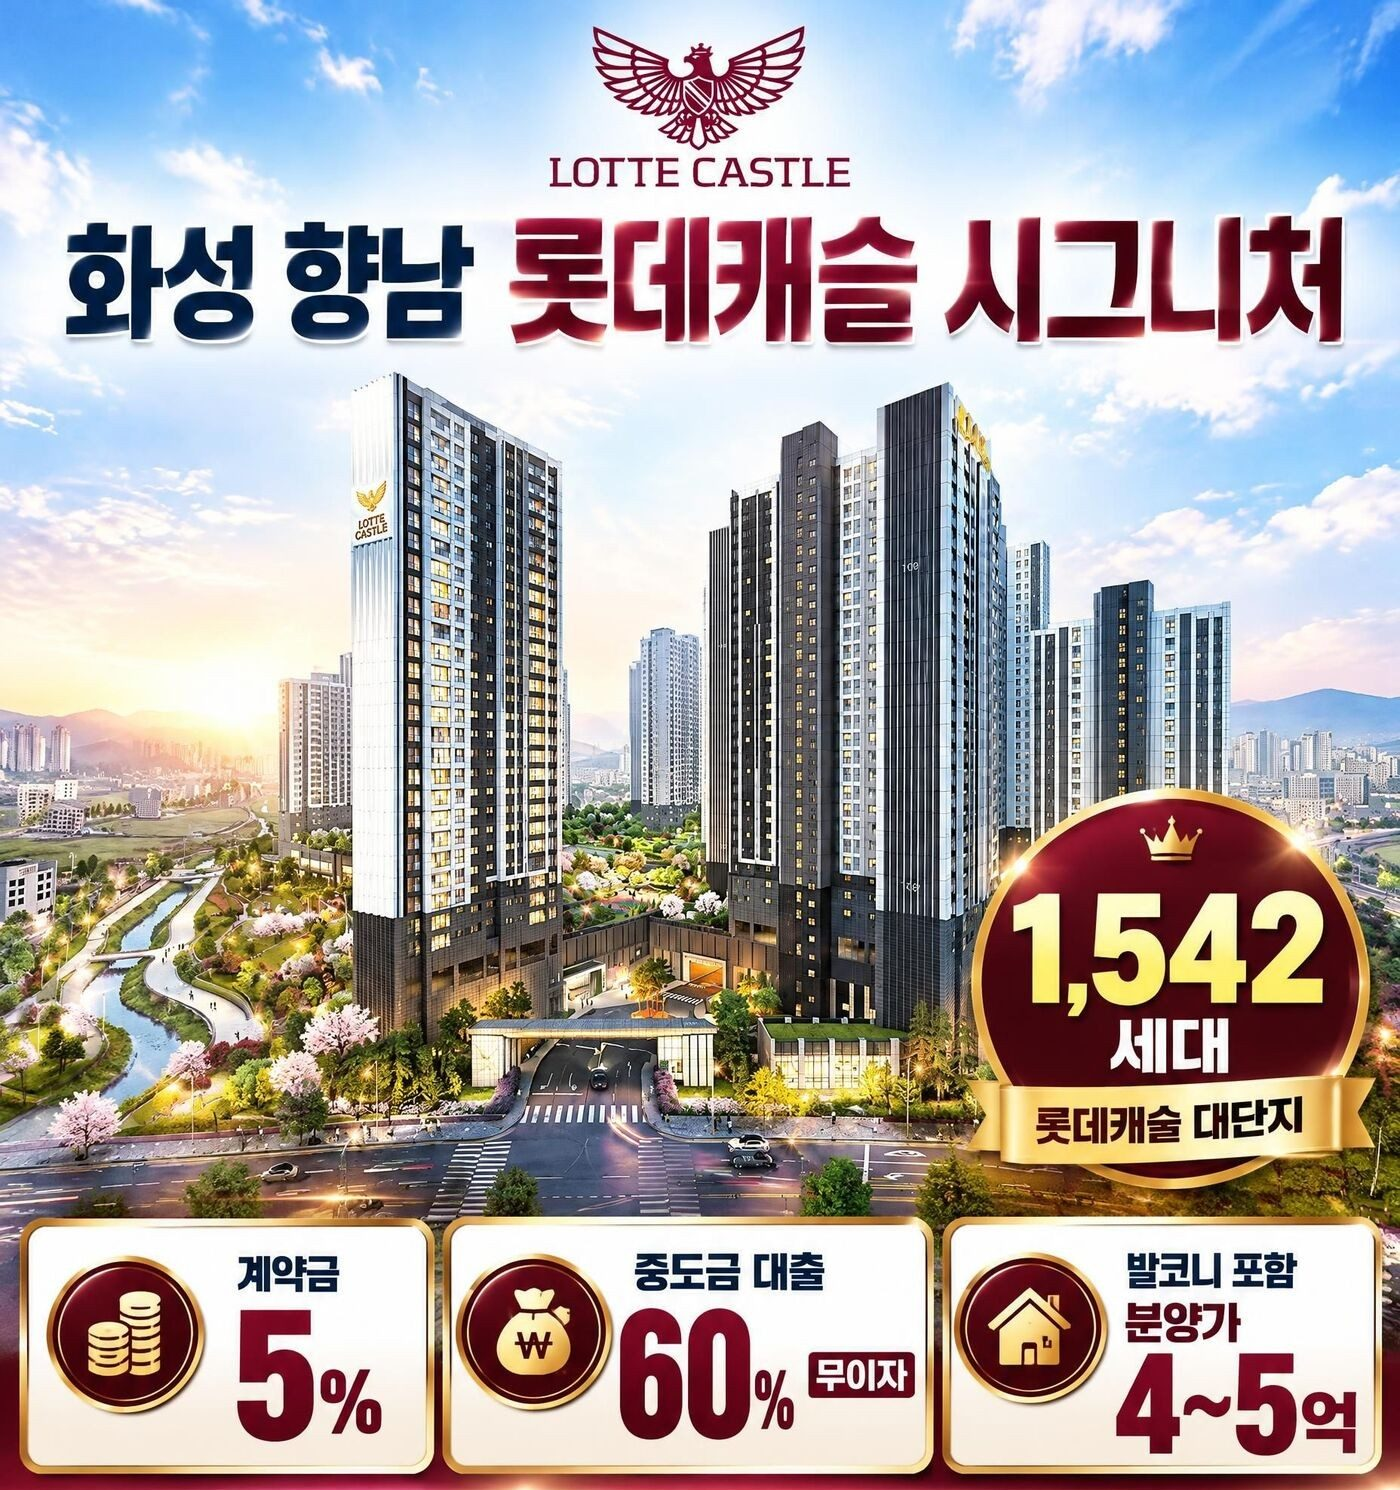
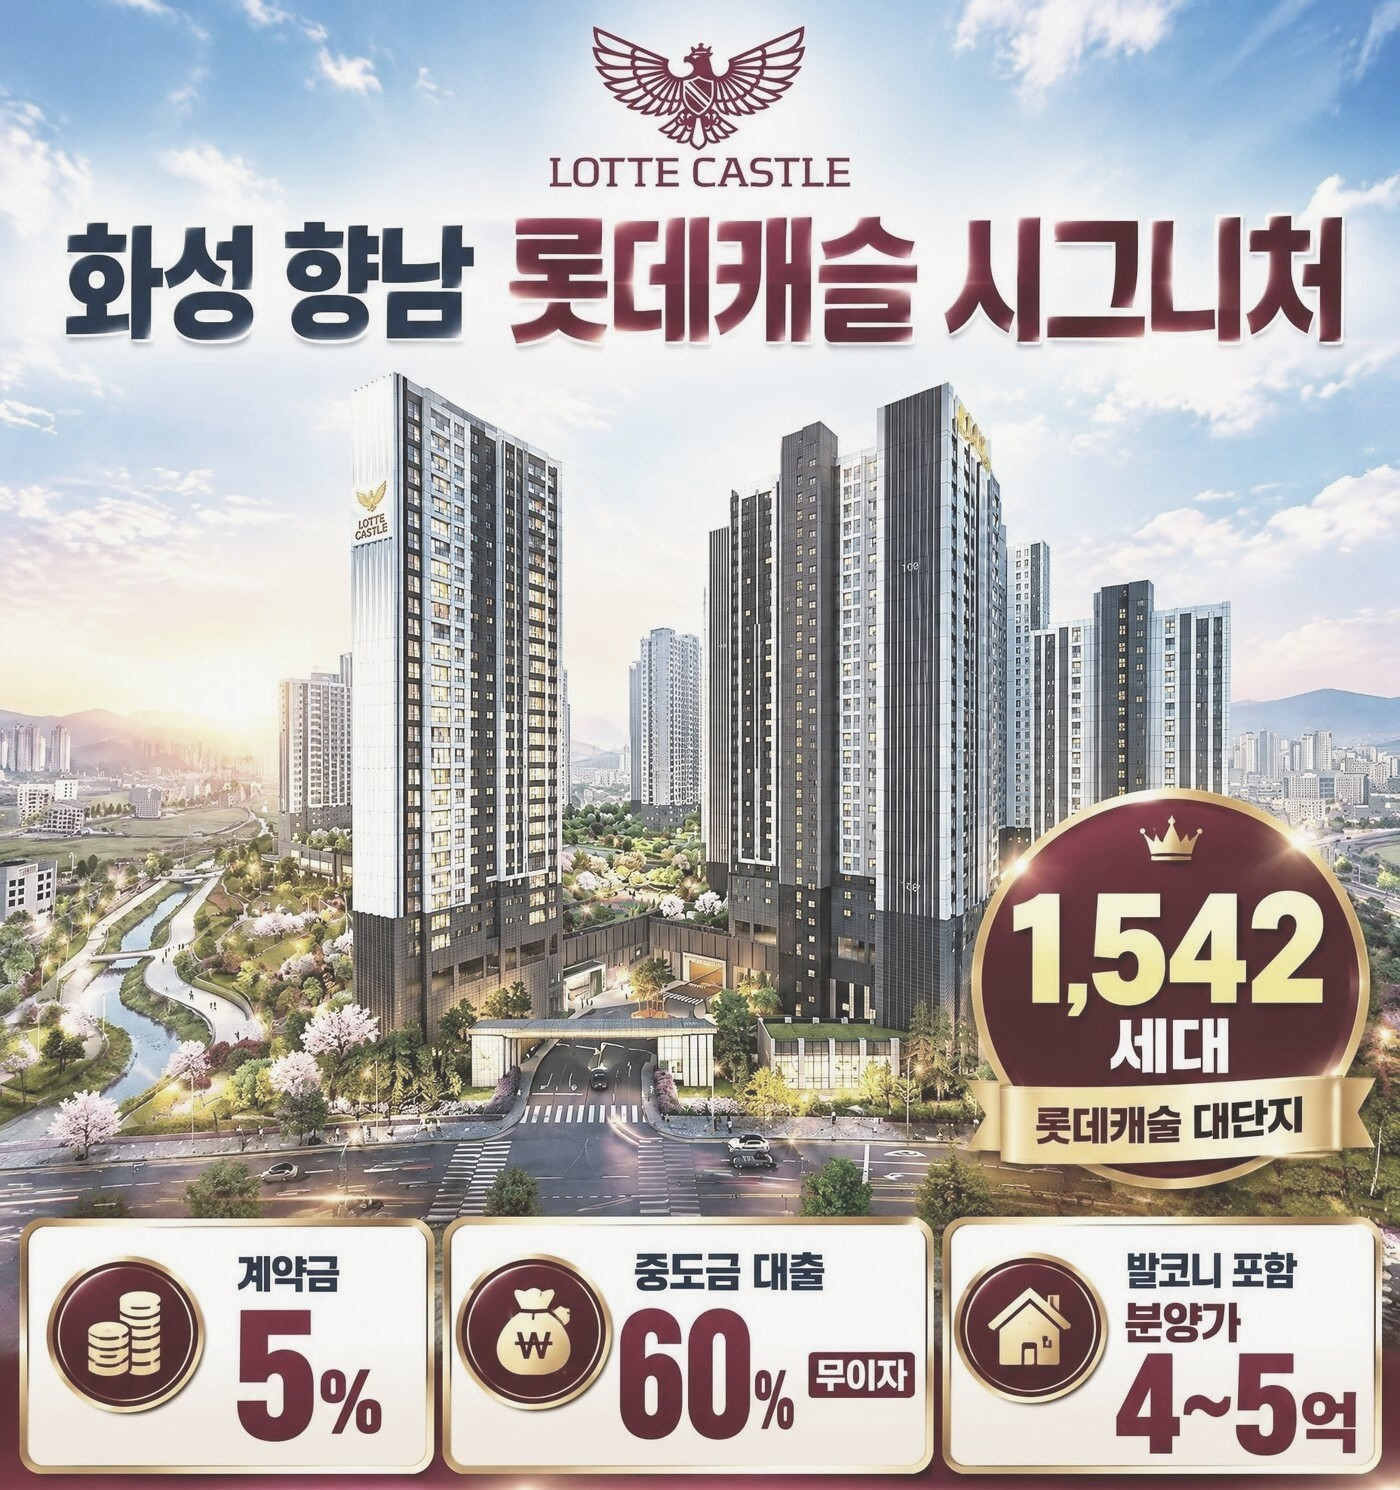
타입 카드 평면안내 연결, 대문 이미지 색감 차분하게 조정
- 타입 카드(84A~120) 클릭 시 평면안내 섹션으로 이동하고 해당 평형 탭 선택
- 대문 이미지 채도·대비를 낮춰 차분한 톤으로 변경

diff --git a/index.html b/index.html
@@ -106,7 +106,8 @@ table.ov{width:100%;border-collapse:collapse;margin:18px 0;font-size:15px;table-
 table.ov th,table.ov td{border-bottom:1px solid var(--line);padding:12px 10px;text-align:left;vertical-align:top}
 table.ov th{width:30%;color:var(--wine3);font-weight:700;background:var(--cream)}
 .types{display:grid;grid-template-columns:repeat(5,minmax(0,1fr));gap:8px;margin-top:18px}
-.type{border:1px solid var(--line);border-radius:12px;padding:12px 6px;text-align:center;background:#fff}
+.type{display:block;border:1px solid var(--line);border-radius:12px;padding:12px 6px;text-align:center;background:#fff;color:inherit;text-decoration:none;cursor:pointer;transition:border-color .2s,box-shadow .2s}
+.type:hover,.type:focus-visible{border-color:var(--wine2);box-shadow:0 2px 10px rgba(0,0,0,.08);outline:none}
 .type b{display:block;font-size:20px;font-weight:900;color:var(--wine2)}
 .type span{font-size:12px;color:var(--muted)}
 
@@ -257,16 +258,16 @@ footer button{background:none;border:0;color:#f3dc95;text-decoration:underline;f
       <tr><th>시행</th><td>(주)젤존</td></tr>
     </table>
     <div class="types">
-      <div class="type"><b>84A</b><span>291세대</span></div>
-      <div class="type"><b>84B</b><span>136세대</span></div>
-      <div class="type"><b>84C</b><span>412세대</span></div>
-      <div class="type"><b>84D</b><span>89세대</span></div>
-      <div class="type"><b>84E</b><span>301세대</span></div>
-      <div class="type"><b>84F</b><span>83세대</span></div>
-      <div class="type"><b>84G</b><span>19세대</span></div>
-      <div class="type"><b>102</b><span>56세대</span></div>
-      <div class="type"><b>112</b><span>78세대</span></div>
-      <div class="type"><b>120</b><span>77세대</span></div>
+      <a class="type" href="#unit" data-go="u84a"><b>84A</b><span>291세대</span></a>
+      <a class="type" href="#unit" data-go="u84b"><b>84B</b><span>136세대</span></a>
+      <a class="type" href="#unit" data-go="u84c"><b>84C</b><span>412세대</span></a>
+      <a class="type" href="#unit" data-go="u84d"><b>84D</b><span>89세대</span></a>
+      <a class="type" href="#unit" data-go="u84e"><b>84E</b><span>301세대</span></a>
+      <a class="type" href="#unit" data-go="u84f"><b>84F</b><span>83세대</span></a>
+      <a class="type" href="#unit" data-go="u84g"><b>84G</b><span>19세대</span></a>
+      <a class="type" href="#unit" data-go="u102"><b>102</b><span>56세대</span></a>
+      <a class="type" href="#unit" data-go="u112"><b>112</b><span>78세대</span></a>
+      <a class="type" href="#unit" data-go="u120"><b>120</b><span>77세대</span></a>
     </div>
   </div>
 </section>
@@ -560,6 +561,14 @@ document.querySelectorAll('.tabs').forEach(function(tb){
       tb.querySelectorAll('button').forEach(function(x){x.classList.remove('on');document.getElementById(x.getAttribute('data-p')).classList.remove('on');});
       b.classList.add('on');document.getElementById(b.getAttribute('data-p')).classList.add('on');
     });
+  });
+});
+
+/* 타입 카드 → 평면안내 해당 평형 탭 선택 (href="#unit"로 스크롤) */
+document.querySelectorAll('[data-go]').forEach(function(card){
+  card.addEventListener('click',function(){
+    var btn=document.querySelector('.tabs button[data-p="'+card.getAttribute('data-go')+'"]');
+    if(btn)btn.click();
   });
 });
 
